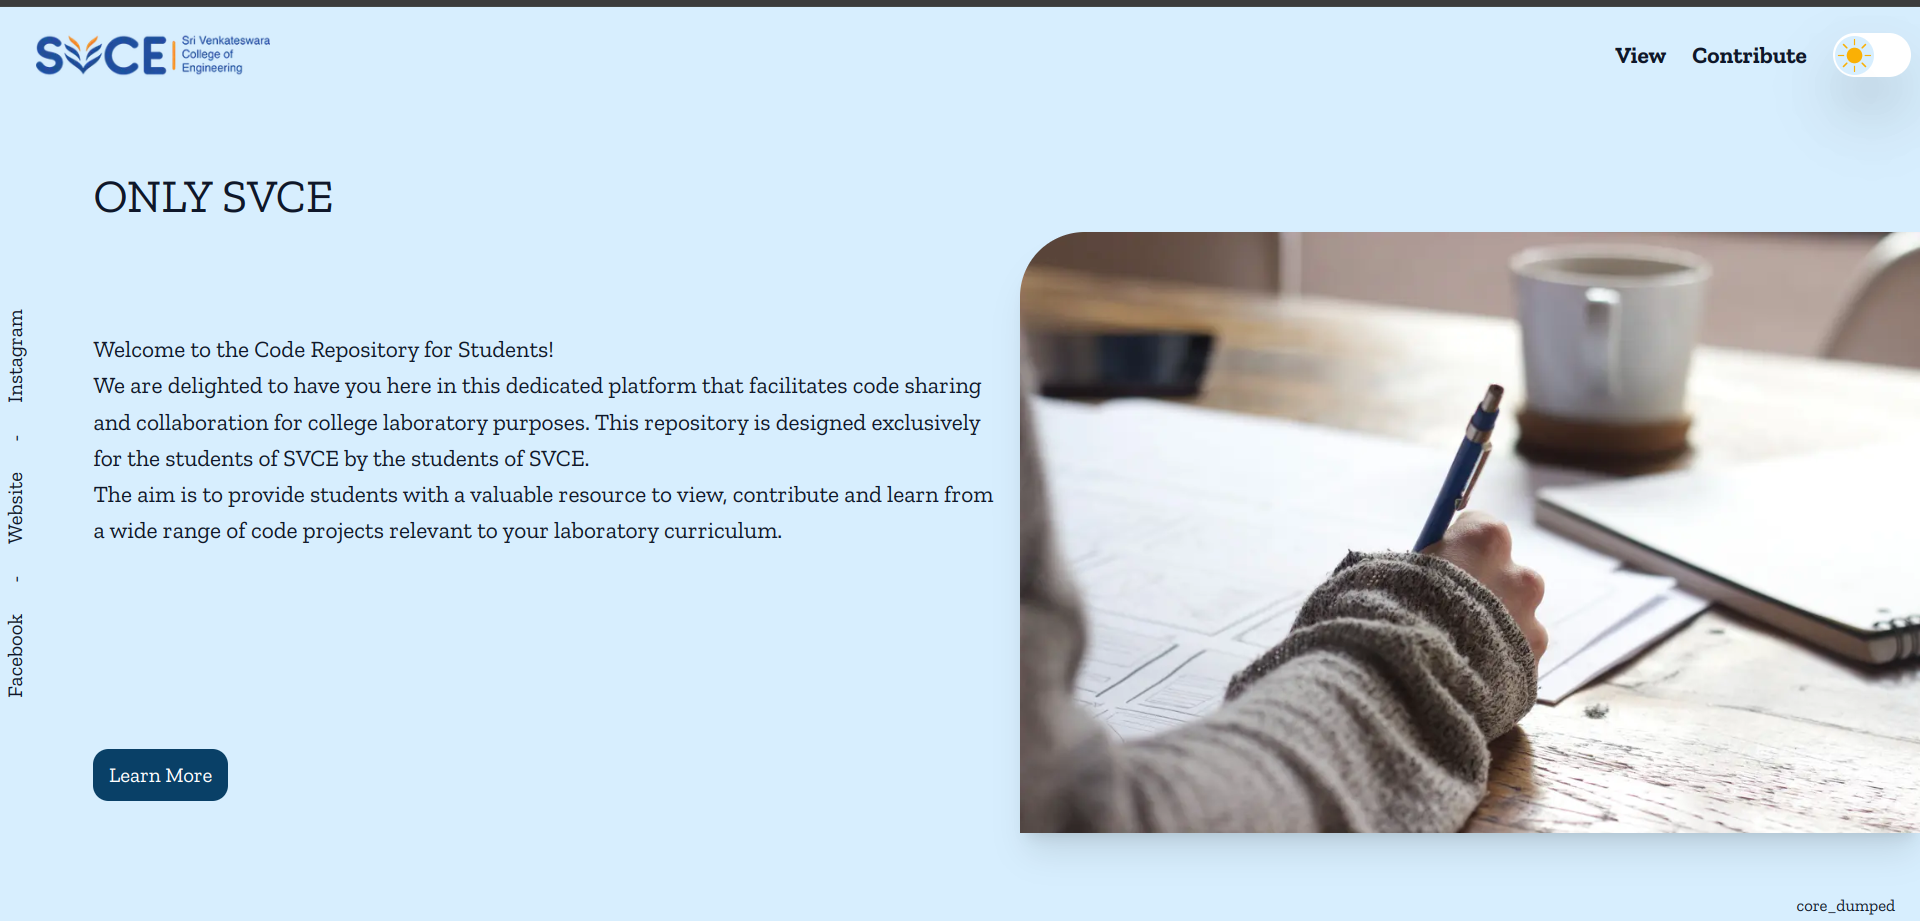
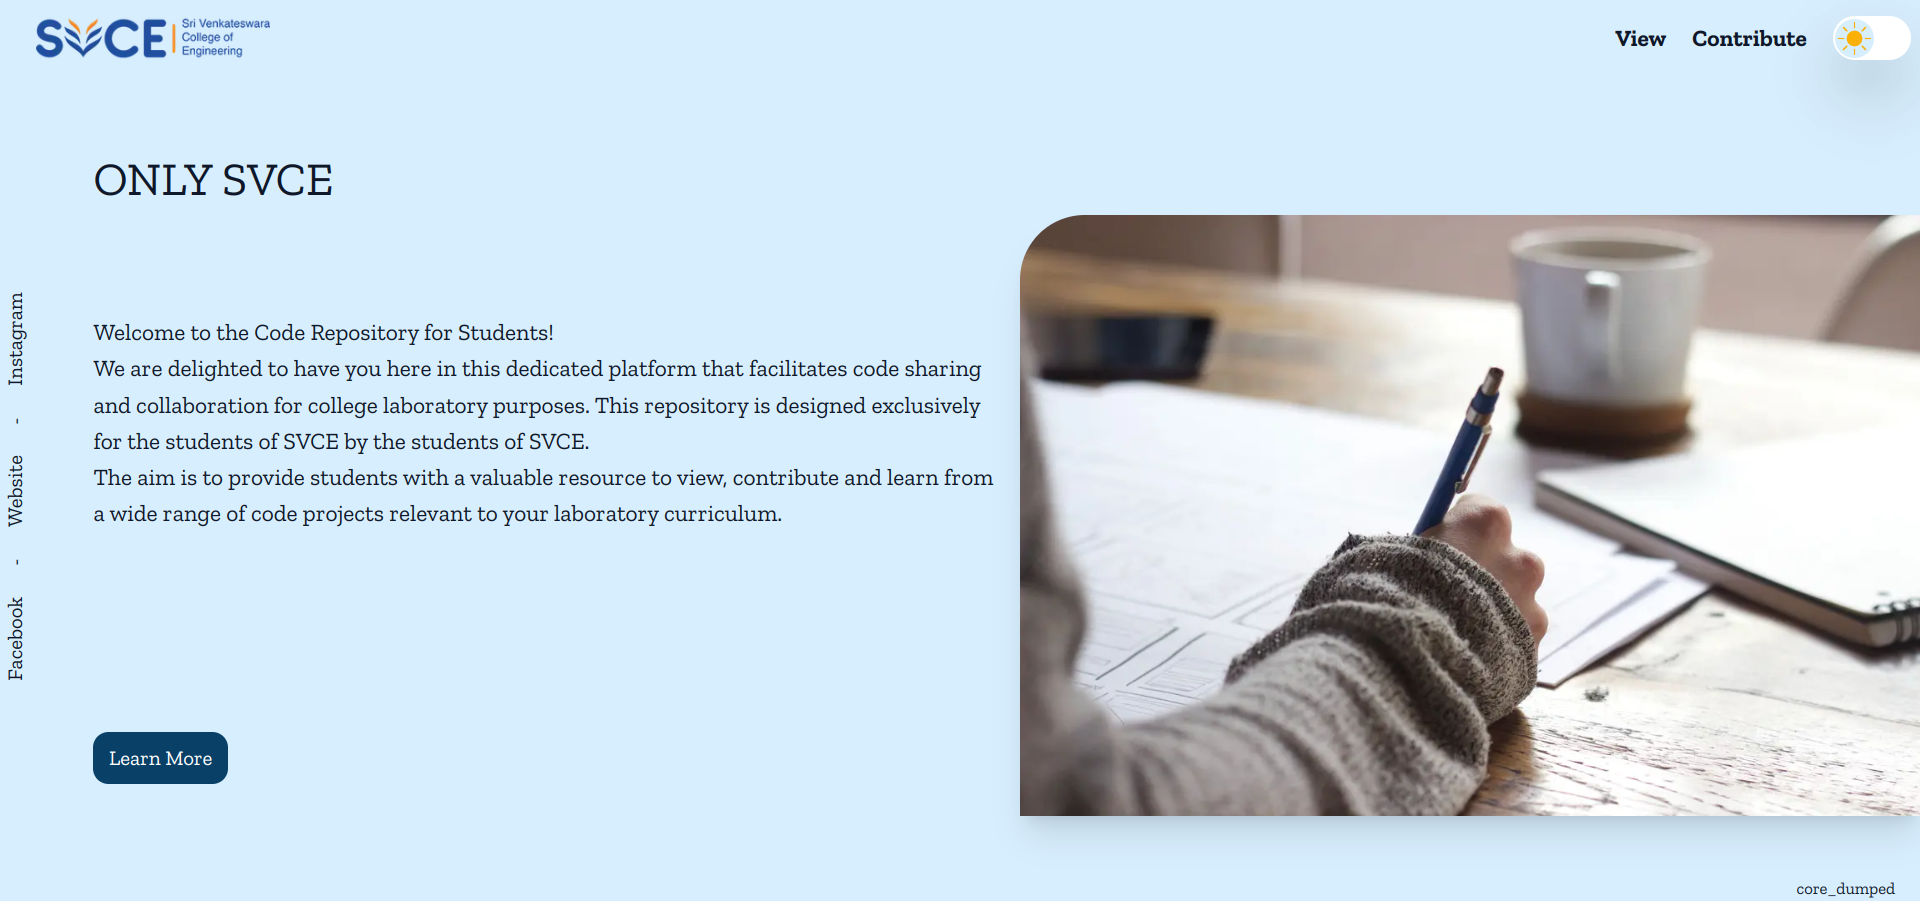
PD - hamburger issue

diff --git a/src/components/Hamburger.tsx b/src/components/Hamburger.tsx
@@ -28,15 +28,17 @@ const Hamburger = ({ theme }: { theme: string | undefined }) => {
               <img
                 src="/main-logos/no-bg-dark-logo.png"
                 alt="Logo"
-                width={100}
-                height={100}
+                className="w-[100px] h-[100px] max-sm:w-[80px] max-sm:h-[80px]"
+                // width={100}
+                // height={100}
               />
             ) : (
               <img
                 src="/main-logos/no-bg-light-logo.png"
                 alt="Logo"
-                width={100}
-                height={100}
+                className="w-[100px] h-[100px] max-sm:w-[80px] max-sm:h-[80px]"
+                // width={100}
+                // height={100}
               />
             )}
           </Link>
@@ -74,15 +76,17 @@ const Hamburger = ({ theme }: { theme: string | undefined }) => {
                       <img
                         src="/main-logos/no-bg-dark-ham-logo.png"
                         alt="Logo"
-                        width={100}
-                        height={100}
+                        className="w-[100px] h-[100px] max-sm:w-[80px] max-sm:h-[80px]"
+                        // width={100}
+                        // height={100}
                       />
                     ) : (
                       <img
                         src="/main-logos/no-bg-light-logo.png"
                         alt="Logo"
-                        width={100}
-                        height={100}
+                        className="w-[100px] h-[100px] max-sm:w-[80px] max-sm:h-[80px]"
+                        // width={100}
+                        // height={100}
                       />
                     )}
                   </Link>

diff --git a/src/components/ProjectCards.tsx b/src/components/ProjectCards.tsx
@@ -18,7 +18,7 @@ const ProjectCards = ({
       {projectsList.map((item, index) => (
         <Link to={`/projects/${item.route}`}>
           <motion.div
-            initial={{ opacity: initialOpacity }}
+            initial={{ opacity: window.innerWidth <= 768 ? 1 : initialOpacity }}
             transition={{ duration: 0.25, delay: 0.25 }}
             whileHover={{ scale: scale, opacity: 1 }}
             key={index}
